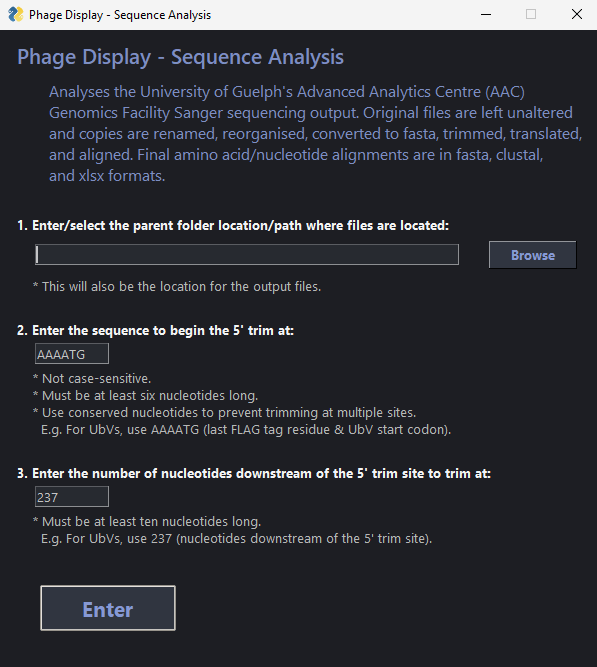
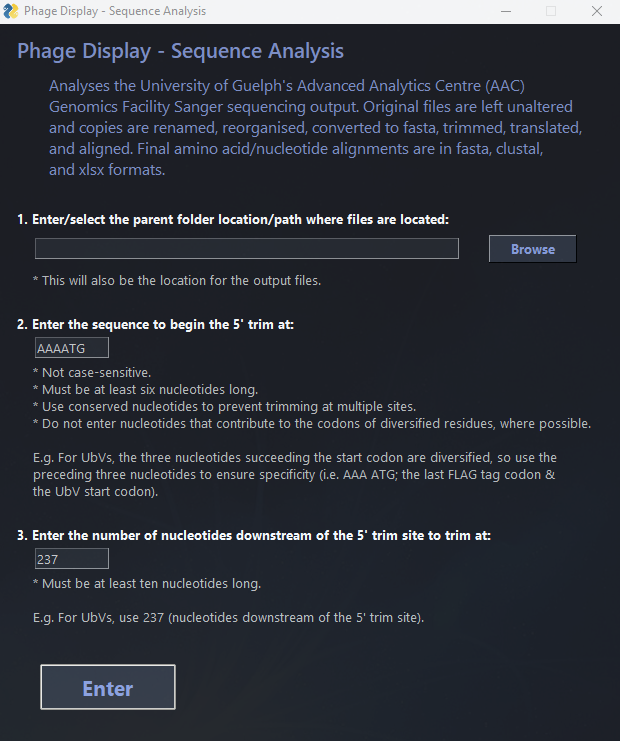
Update READMEs and GUI pictures

diff --git a/2_bindingAnalysis/readme.md b/2_bindingAnalysis/readme.md
@@ -4,7 +4,11 @@ Analyses ELISA binding data along with corresponding sequence data.  Calculates 
 each protein, calculates the binder:control absorbance ratio, and normalizes them against the average of the blanks.
 ELISA data that don't have corresponding sequencing data are excluded from the final results.
 
-![Binding Analysis GUI](gui/source/images/gui.png)
+![Binding Analysis GUI 1](gui/source/images/gui1.png)
+
+![Binding Analysis GUI 2](gui/source/images/gui2.png)
+
+![Binding Analysis GUI 3](gui/source/images/gui3.png)
 
 ## Details:
 
@@ -37,7 +41,7 @@ respectively) are included.
 ## Compatibility:
 * PyCharm is the recommended IDE to use for running terminal scripts. If using Spyder, avoid version 5 as this version
 for has conflicts with the xlsxwriter package and may get stuck on importing modules.
-* Confirmed to work with Python 3.9. Later/earlier versions may work but have not been verified.
+* Confirmed to work with Python 3.9. Later/earlier versions may work but have not been tested.
 * Confirmed to work in Windows and unconfirmed in Macs and Linux. Path names may need to be changed to suit Macs
 and Linux' formats.
 

diff --git a/1_sequenceAnalysis/readme.md b/1_sequenceAnalysis/readme.md
@@ -4,7 +4,7 @@ Analyses the University of Guelph's Advanced Analytics Centre (AAC) Genomics Fac
 files are left unaltered and copies are renamed, reorganised, converted to fasta, trimmed, translated, and aligned.
 Final amino acid/nucleotide alignments are in fasta, clustal, and xlsx formats.
 
-![Sequence Analysis GUI](https://user-images.githubusercontent.com/55511532/137400899-cea27a53-72dc-4130-bcb7-eda1edcd1a98.png)
+![Sequence Analysis GUI](gui/source/images/gui.png)
 
 ## Details:
 
@@ -33,7 +33,7 @@ to a separate folder for manual analysis.
 ## Compatibility:
 * PyCharm is the recommended IDE to use for running terminal scripts. If using Spyder, avoid version 5 as this version
 for has conflicts with the xlsxwriter package and may get stuck on importing modules.
-* Confirmed to work with Python 3.9. Later/earlier versions may work but have not been verified.
+* Confirmed to work with Python 3.9. Later/earlier versions may work but have not been tested.
 * Confirmed to work in Windows and unconfirmed in Macs and Linux. Path names may need to be changed to suit Macs
 and Linux' formats.
 

diff --git a/readme.md b/readme.md
@@ -17,7 +17,7 @@ Each program can be run either as an executable or a terminal program. For furth
 ## Compatibility:
 * PyCharm is the recommended IDE to use for running terminal scripts. If using Spyder, avoid version 5 as this version
 for has conflicts with the xlsxwriter package and may get stuck on importing modules.
-* Confirmed to work with Python 3.9. Later/earlier versions may work but have not been verified.
+* Confirmed to work with Python 3.9. Later/earlier versions may work but have not been tested.
 * Confirmed to work in Windows and unconfirmed in Macs and Linux. Path names may need to be changed to suit Macs
 and Linux' formats.
 

diff --git a/3_conservationAnalysis/readme.md b/3_conservationAnalysis/readme.md
@@ -31,7 +31,7 @@ Analysis programs, the following will apply:
 ## Compatibility:
 * PyCharm is the recommended IDE to use for running terminal scripts. If using Spyder, avoid version 5 as this version
 for has conflicts with the xlsxwriter package and may get stuck on importing modules.
-* Confirmed to work with Python 3.9. Later/earlier versions may work but have not been verified.
+* Confirmed to work with Python 3.9. Later/earlier versions may work but have not been tested.
 * Confirmed to work in Windows and unconfirmed in Macs and Linux. Path names may need to be changed to suit Macs
 and Linux' formats.
 
